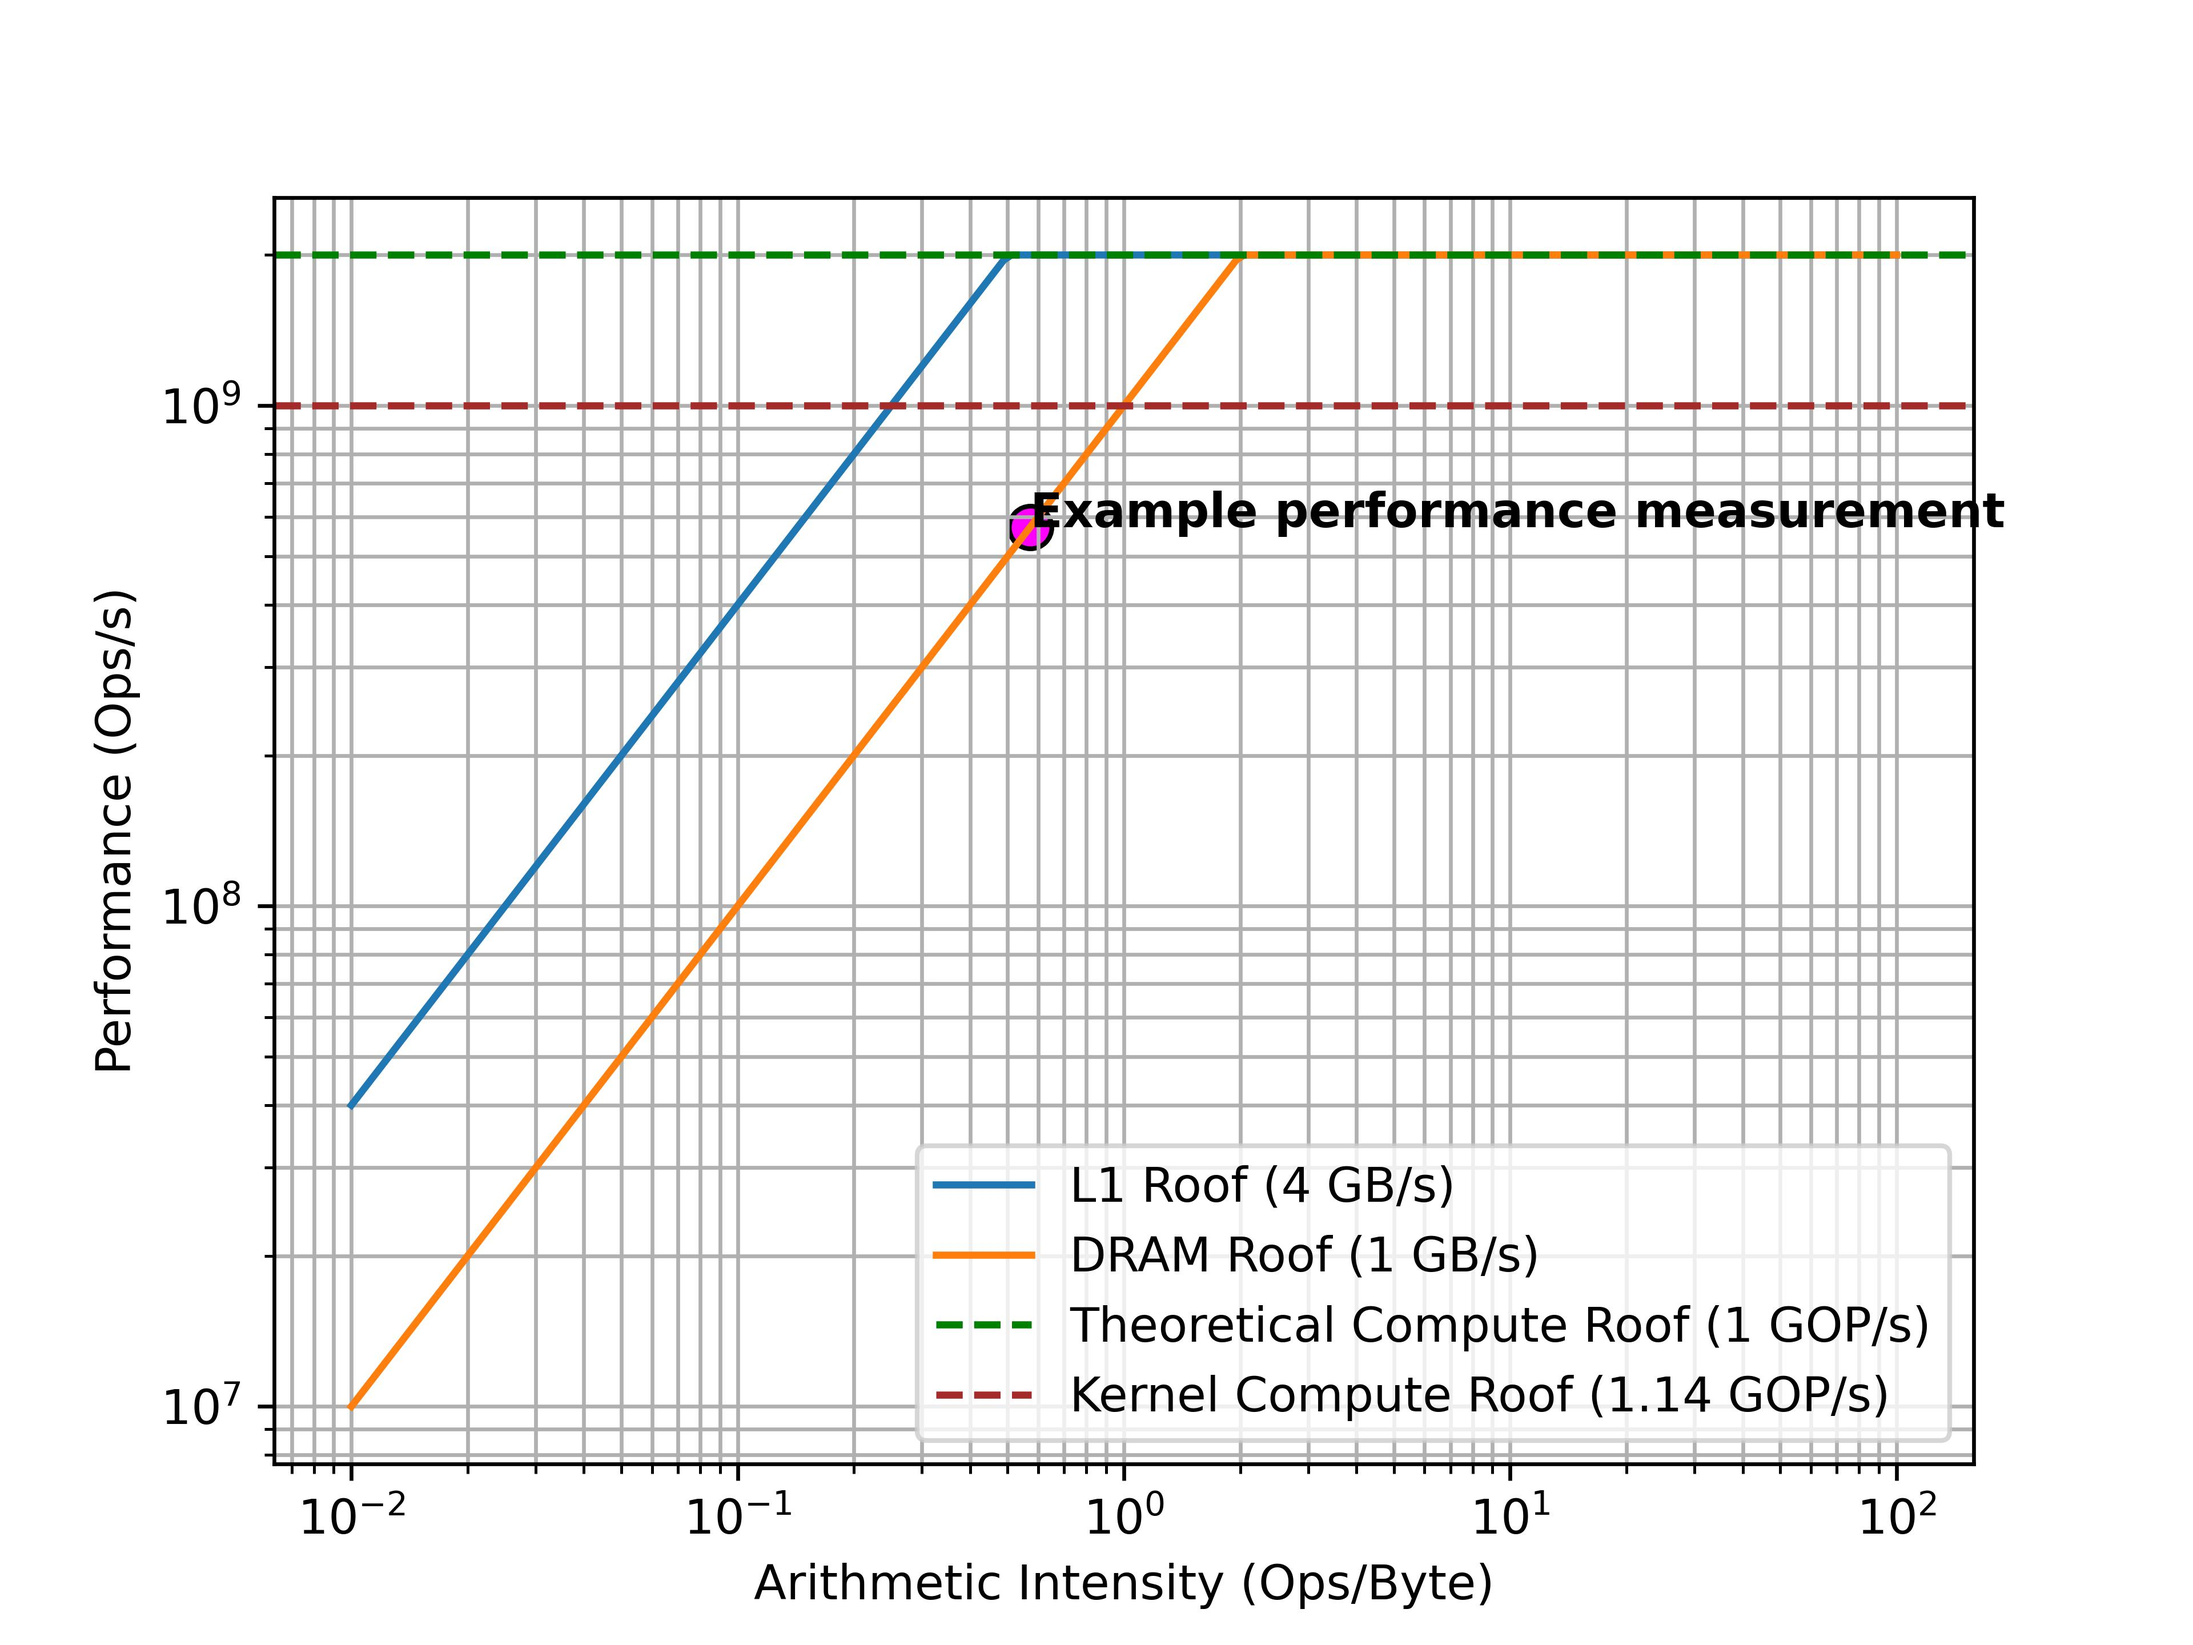
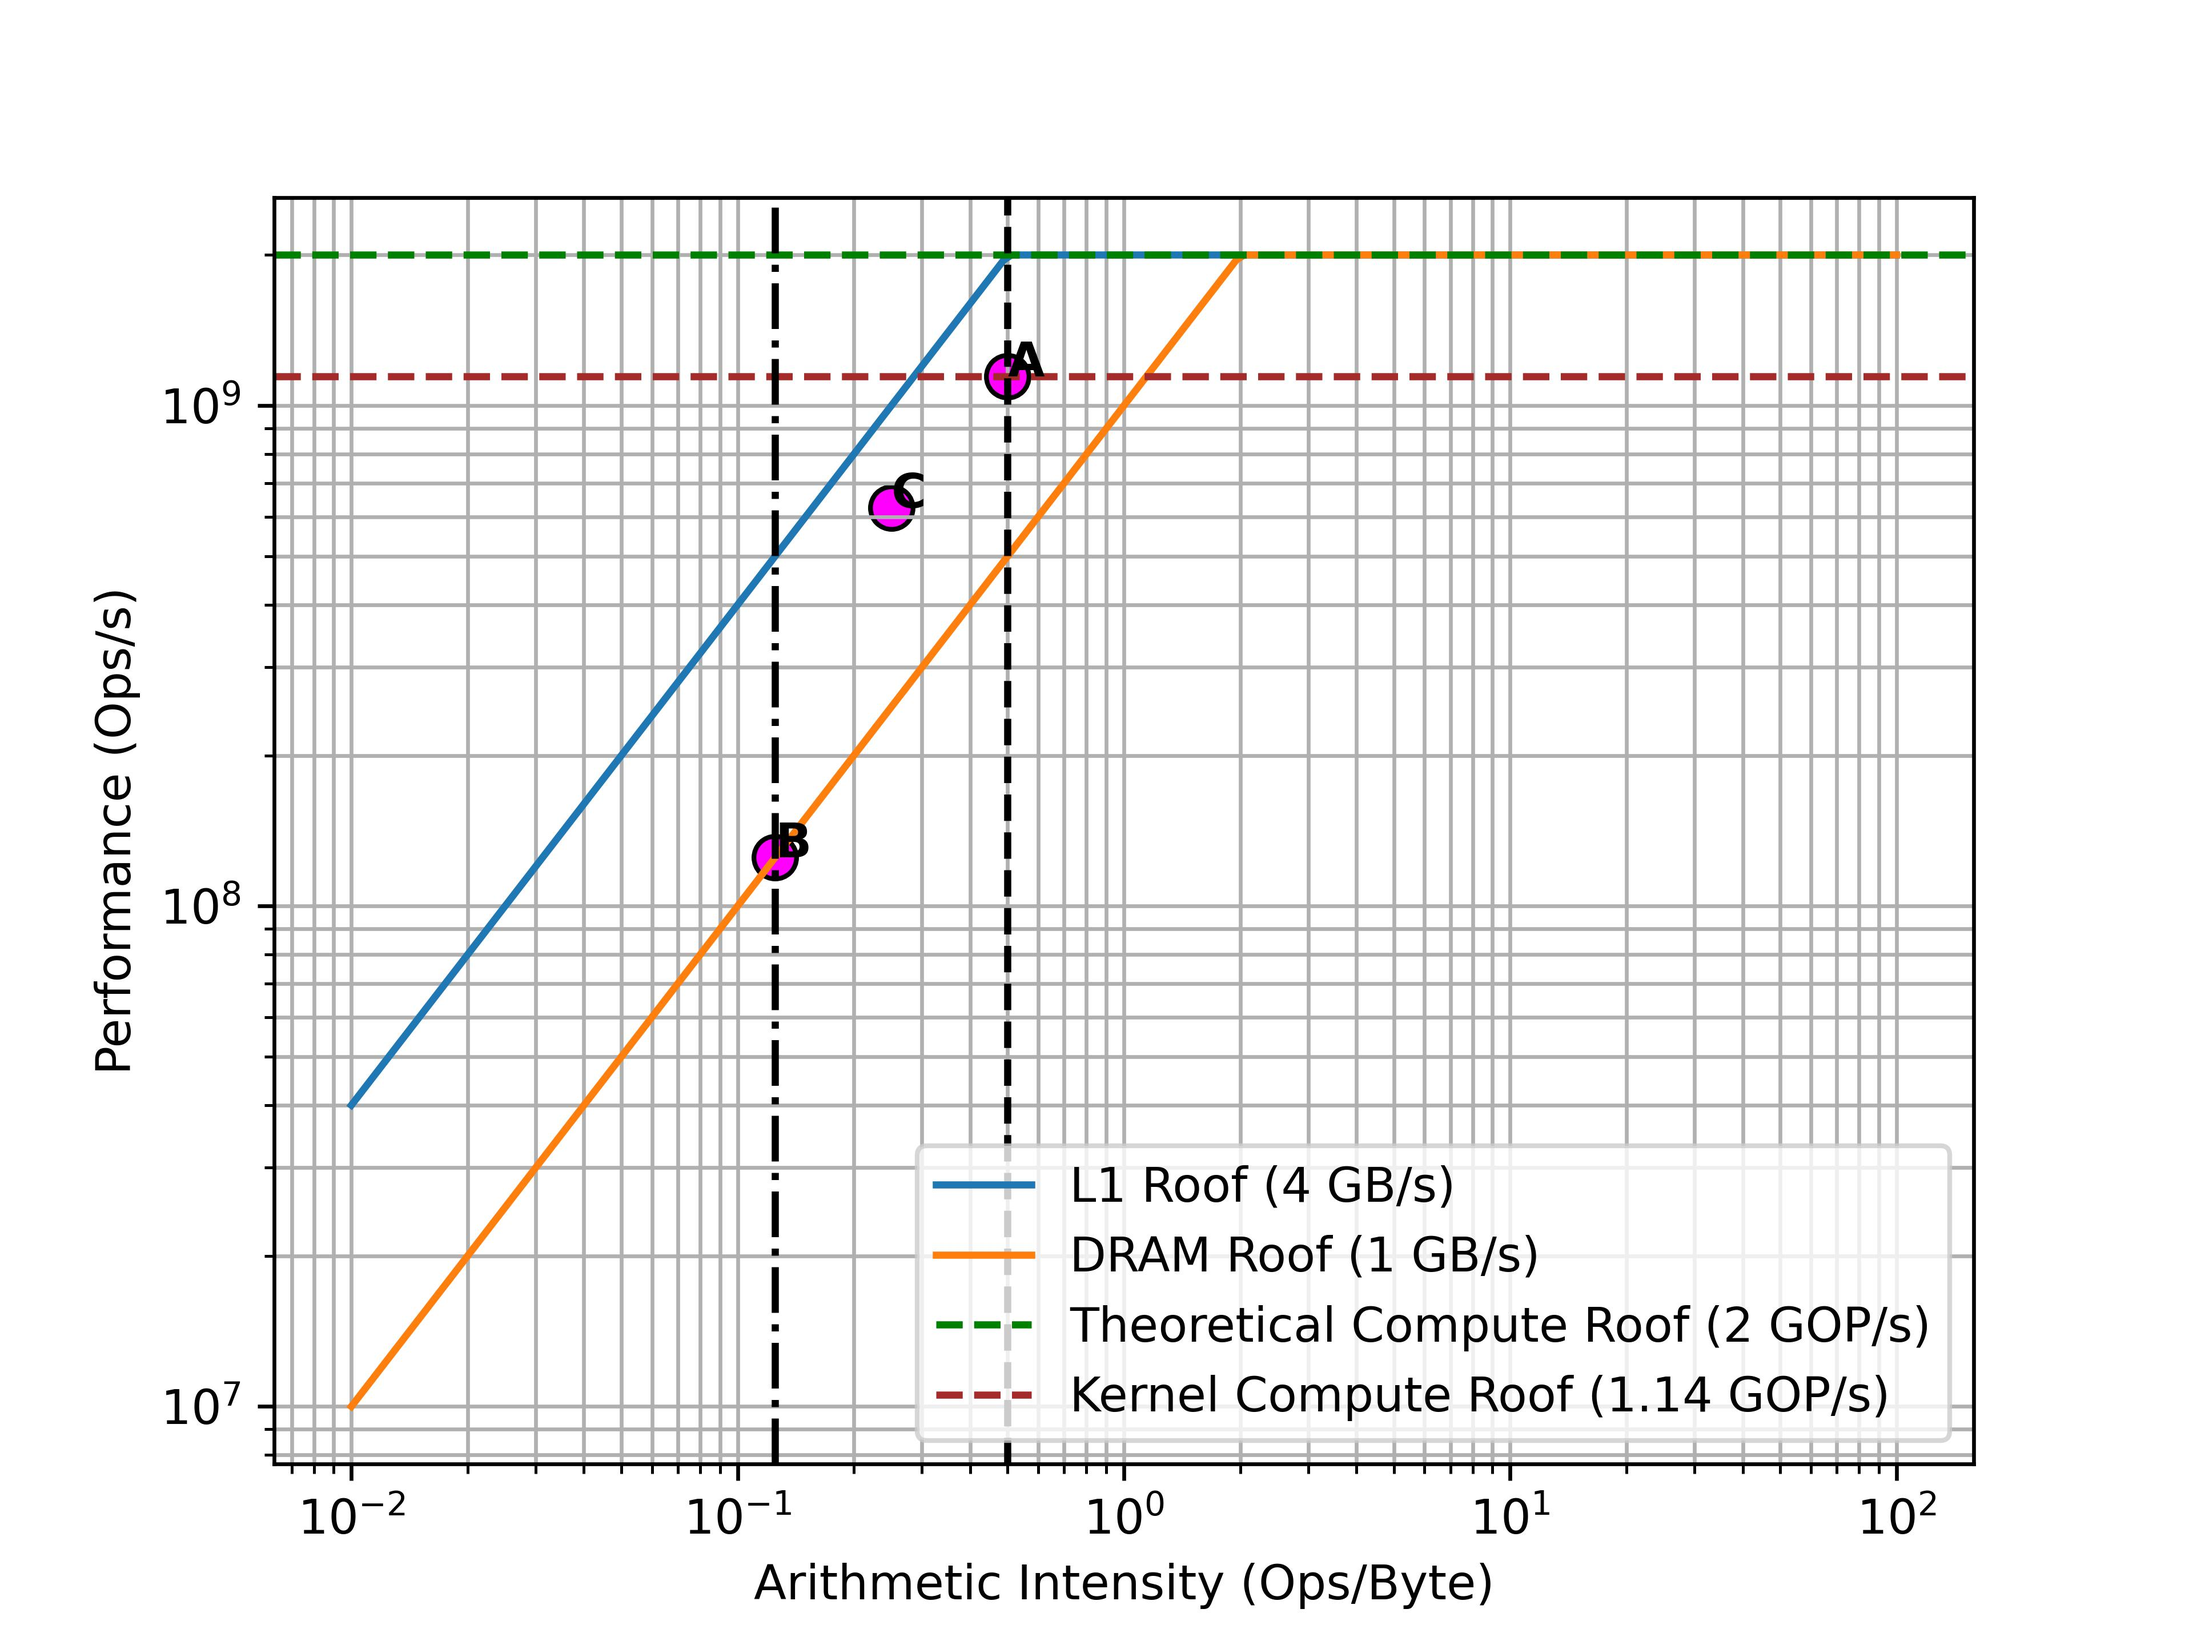
roofline WIP 2

Changed region(s): [[0.375, 0.2812, 0.9062, 0.3438], [0.125, 0.1875, 0.9062, 0.25], [0.3438, 0.5, 0.375, 0.5625]]

diff --git a/content/inside/roofline/graph.py b/content/inside/roofline/graph.py
@@ -57,20 +57,41 @@ plt.loglog(ai, perf_l1, label="L1 Roof (4 GB/s)")
 plt.loglog(ai, perf_dram, label="DRAM Roof (1 GB/s)")
 
 # Compute roof
-plt.axhline(peak_compute, linestyle='--', color="green" , label="Theoretical Compute Roof (1 GOP/s)")
-plt.axhline((k_ops / k_bw) * peak_compute, linestyle='--', color="brown" , label="Kernel Compute Roof (1.14 GOP/s)")
-
+plt.axhline(peak_compute, linestyle='--', color="green" , label="Theoretical Compute Roof (2 GOP/s)")
+plt.axhline(real_compute, linestyle='--', color="brown" , label="Kernel Compute Roof (1.14 GOP/s)")
 plt.xlabel("Arithmetic Intensity (Ops/Byte)")
 plt.ylabel("Performance (Ops/s)")
 
 plt.legend()
 plt.grid(True, which="both")
 
-
-ai_dot = 4 / 7
-perf_dot = min(bw_dram * ai_dot, real_compute * 0.5)
-
+ai_dot = k_ops / k_bw
+perf_dot = min(bw_l1 * ai_dot, real_compute)
+plt.axvline(ai_dot, linestyle='--', color='black', label="Locality Wall (L1)")
 plt.scatter([ai_dot], [perf_dot], color="magenta", edgecolors="black", linewidths=1, s=80)
-plt.text(ai_dot, perf_dot, "Example performance measurement", fontsize=10, fontweight="bold")
+plt.text(ai_dot, perf_dot, "A", fontsize=10, fontweight="bold")
 
-plt.savefig("roofline3.jpg", dpi=600)
+ai_dot = k_ops / (k_bw * 4)
+perf_dot = min(bw_dram * ai_dot, real_compute)
+plt.axvline(ai_dot, linestyle='-.', color='black', label="Locality Wall (DRAM)")
+plt.scatter([ai_dot], [perf_dot], color="magenta", edgecolors="black", linewidths=1, s=80)
+plt.text(ai_dot, perf_dot, "B", fontsize=10, fontweight="bold")
+
+ai_dot = k_ops / (k_bw * 2)
+perf_dot = min(0.5*((bw_dram * ai_dot) + (bw_l1 * ai_dot)), real_compute)
+plt.scatter([ai_dot], [perf_dot], color="magenta", edgecolors="black", linewidths=1, s=80)
+plt.text(ai_dot, perf_dot, "C", fontsize=10, fontweight="bold")
+
+
+k_ops_unrolled = 8 
+k_cycles_unrolled = 10
+k_bw_unrolled = 16
+real_compute_unrolled = ( k_ops_unrolled / k_cycles_unrolled) * peak_compute
+ai_dot = 10 / (k_bw_unrolled * 2)
+perf_dot = min(0.5*((bw_dram * ai_dot) + (bw_l1 * ai_dot)), real_compute_unrolled)
+plt.scatter([ai_dot], [perf_dot], color="magenta", edgecolors="black", linewidths=1, s=80)
+plt.text(ai_dot, perf_dot, "D", fontsize=10, fontweight="bold")
+plt.axhline(real_compute_unrolled, linestyle='--', color="Grey" , label="Kernel Compute Roof (Unrolling)")
+
+
+plt.savefig("roofline4.jpg", dpi=600)

diff --git a/content/inside/roofline/index.md b/content/inside/roofline/index.md
@@ -23,7 +23,7 @@ To begin lets take an imaginary RISC-V CPU as an example with the following feat
  - Its an RV32IMAC core. This means it supports integer, multiply, atomic, and compressed instructions. It does not support floating point.
  - It has a single core which runs at 1GHz
  - It has a dual issue, in-order pipeline: 
-    - Two arithentic operations can be inflight 
+    - Two arithmetic operations can be inflight 
     - A single memory operation can be inflight. 
     - An arithetic instruciton like `add a2, a3, a4` can execute in a single cycle.
     - Given that it supports the M extension, suppose it can do a 32-bit multiply in 4 cycles.
@@ -82,29 +82,63 @@ loop:
     lw a, A[i];
     lw b, B[i];
     mul b, a, b;
-    rsi shift, mul, 2;
+    srli shift, mul, 2;
     add shift shift bias
     add sum sum shift
 ```
 
 By my rough calculation, assuming we can use the dual issue pipeline and fit the arrays in L1 cache, this should take about 7 cycles per iteration. 
 
-With 4 operations and 7 cycles to load, this gives us 57% throughput, and our max possible performance is actually 1.14GOP/s. This defines our "Kernel Roof". It is common to define many "Roofs" for different levels of abstraction and different HW features enabled. EG with/without prefetching, with/without cache misses. Ultimately when you measure performance, the presence of these different boundaries allow you to diagnose why your performance may be lower than you expect. 
+With 4 operations and 7 cycles to complete them, this gives us 57% throughput, and our max possible performance is actually 1.14GOP/s. This defines our "Kernel Roof".  
+
+It is common to define many "Roofs" for different levels of abstraction and with different hardware features being utilized. EG with/without prefetching or with/without multithreading. This type of "Roof" would be considered an "In-core" ceiling, as opposed to e.g a bandwidth ceiling like our diagonal L1 cache and DRAM lines. So far we have covered diagonal and horizontal "Roofs"... But what about vertical walls?
+
+A vertical wall would indicate a some boundary in operational intensity. In our case study, an example of these walls might represent whether we hit the L1 cache or not. When there are many cache hits, we are less memory-bound.
+
+Wikipedia calls these "Locality walls":
+
+>If the ideal assumption that arithmetic intensity is solely a function of the kernel is removed, and the cache topology - and therefore cache misses - is taken into account, the arithmetic intensity clearly becomes dependent on a combination of kernel and architecture. - Wikipedia
+
+This is an important point. Obviously, performance is acheived through a combination of hardware and software effort. We cant assume they are independent.
+
+Given that we have an access time of 1 cycle in L1 cache and 4 cycles in DRAM, we might take 6-more cycles to process an iteration where loading `A[i]` and `B[i]` are cache misses. This doesnt change the *algorithmic* operational intensity of the kernel, However, it does change our *effective* intensity, and is a much more realistic model.  
+
+Point A on the graph represents a run where all loads are cache hits. We are at our "Kernel Roof" ceiling and our performance is at its best.
+
+When we get cache misses, our *effective* arithemtic intensity reduces. In our case, if every load missed L1 we would spend it would then have to be fetched from DRAM which takes 4x as long. For simplicity we can model this as more bytes transferred. This gives us a new arithemtic intensity of 4 operations / 32 bytes. Its clear from the diagram that we are heavily bound by memory now. Point B represents a run like this. 
+
+The Locality walls can now help us understand how many cache misses we are getting. Point C shows a run where half the loads hit the cache. 
 
 ![](./roofline3.jpg)
 
-From the roofline graph and assembly, we might comclude we are still memory bound, as we have a data dependency on the result of the multiply which slows down our loop. 
+Ultimately when you measure performance, the presence of these different boundaries allow you to diagnose why your performance may be lower than you expect. Which walls you are between and which ceilings you are above/below can help you understand what is happening in your program
 
-Next, consider if we unrolled the loop and loaded the next A and B elements while the previous were processing... 
+Finally, consider if we unrolled the loop and loaded the next A and B elements while the previous were processing... 
 
-Note: A better compiler might have done this...
+We might get assembly like this: 
 
 ```
 loop:
-    add sum sum  bias
-    lw a, A[i];
-    lw b, B[i];
-    mul b, a, b;
-    rsi shift, mul, 2;
-    add sum sum shift
+    lw   a,  A[i]   
+    lw   b,  B[i]
+
+    mul  m0, a, b          # starts (4 cycles)
+
+    # --- Hide load latency behind 4-cycle mul ---
+    lw   a1, A[i+1]
+    lw   b1, B[i+1]
+
+    srli t0, m0, 2
+    add  sum, sum, t0
+    add  sum, sum, bias
+
+    mul  m1, a1, b1         # starts while above ops happen
+    srli t1, m1, 2
+    add  sum, sum, t1
+    add  sum, sum, bias`
 ```
+
+This may only take about 10 cycles with 16 bytes loaded. Depending on the caching performance gives us an improved effective arithemtic intensity. Since we have a better ratio of operations to cycles, this will result in a higher Kernel Roof and almost certainly improve performance for large N. 
+Point D shows an example run with a cache hit rate of 50%. It is much better than C which had a similar hit-rate but was not unrolled, but note how performance is still lower than A - a simple kernel with 100% cache hits. Caching is important!   
+
+
